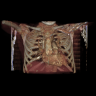
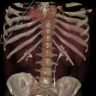
ENH: Canviada la imatge de l'estil de rendering "Spine". Nou estil de rendering "Thorax".

diff --git a/starviewer/src/extensions/playground/volume3dviewtesting/qvolume3dviewtestingextension.cpp b/starviewer/src/extensions/playground/volume3dviewtesting/qvolume3dviewtestingextension.cpp
@@ -114,23 +114,25 @@ void QVolume3DViewTestingExtension::loadRenderingStyles()
     RenderingStyle renderingStyle;
     TransferFunction *transferFunction;
 
-    item = new QStandardItem( QIcon( ":/extensions/Volume3DViewTestingExtension/renderingstyles/spine2.png" ), tr("Spine 2") );
+    item = new QStandardItem( QIcon( ":/extensions/Volume3DViewTestingExtension/renderingstyles/spine2.png" ), tr("Spine") );
     renderingStyle.method = RenderingStyle::RayCasting;
     renderingStyle.diffuseLighting = true;
     renderingStyle.specularLighting = true;
     renderingStyle.specularPower = 64.0;
     transferFunction = TransferFunctionIO::fromXmlFile( ":/extensions/Volume3DViewTestingExtension/renderingstyles/spine2.xml" );
     renderingStyle.transferFunction = *transferFunction;
+    delete transferFunction;
     renderingStyle.contour = false;
     renderingStyle.obscurance = false;
     item->setData( renderingStyle.toVariant() );
     m_renderingStyleModel->appendRow( item );
 
-    item = new QStandardItem( QIcon( ":/extensions/Volume3DViewTestingExtension/renderingstyles/rs2.png" ), tr("Style 2") );
+    item = new QStandardItem( QIcon( ":/extensions/Volume3DViewTestingExtension/renderingstyles/thorax1.png" ), tr("Thorax") );
     renderingStyle.method = RenderingStyle::RayCasting;
     renderingStyle.diffuseLighting = true;
     renderingStyle.specularLighting = true;
     renderingStyle.specularPower = 64.0;
+    transferFunction = TransferFunctionIO::fromXmlFile( ":/extensions/Volume3DViewTestingExtension/renderingstyles/thorax1.xml" );
     renderingStyle.transferFunction = *transferFunction;
     renderingStyle.contour = false;
     renderingStyle.obscurance = false;
